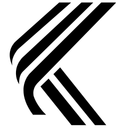
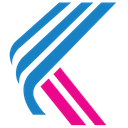
updated the branding

Changed region(s): [[0.1562, 0.0, 0.9062, 1.0], [0.0625, 0.0, 0.75, 0.6562], [0.4062, 0.5312, 0.8438, 1.0]]

diff --git a/src/extension/webviewProvider.ts b/src/extension/webviewProvider.ts
@@ -52,6 +52,11 @@ export class WebviewProvider implements vscode.Disposable {
         ]
       }
     );
+    // Custom tab icon — uses the same logo as the marketplace listing
+    // (`media/icon.png`) instead of VS Code's default three-lines glyph.
+    // Same icon for light + dark theme; VS Code scales the 256×256 PNG
+    // down to 16×16 for the tab strip.
+    panel.iconPath = this.kensaTabIcon();
 
     const kernelManager = new KernelManager(this.context.extensionPath, this.output);
     const router = new DataRouter(kernelManager);
@@ -149,6 +154,7 @@ export class WebviewProvider implements vscode.Disposable {
         ]
       }
     );
+    panel.iconPath = this.kensaTabIcon();
 
     const kernelManager = new KernelManager(this.context.extensionPath, this.output);
     const router = new DataRouter(kernelManager);
@@ -434,6 +440,23 @@ export class WebviewProvider implements vscode.Disposable {
 
   private post(entry: PanelEntry, msg: ExtensionToWebviewMessage): void {
     entry.panel.webview.postMessage(msg);
+  }
+
+  /** URI pair for the Kensa logo used as the panel's tab icon.
+   *
+   *  Uses an SVG (`media/icon-tab.svg`) rather than the marketplace PNG
+   *  (`media/icon.png`). VS Code scales the tab icon down to 16×16, and
+   *  bilinear-filtering a 128×128 PNG produced a faint white halo on
+   *  some themes — the partial-alpha edges of the strokes composited
+   *  against the tab background as light pixels. The SVG renders
+   *  crisply at the target size and preserves true transparency.
+   *
+   *  Both `light` and `dark` point at the same SVG: the colours
+   *  (`#1881C4` blue, `#EB078C` pink) read on either backdrop, so we
+   *  don't need theme-specific variants. */
+  private kensaTabIcon(): { light: vscode.Uri; dark: vscode.Uri } {
+    const uri = vscode.Uri.joinPath(this.context.extensionUri, 'media', 'icon-tab.svg');
+    return { light: uri, dark: uri };
   }
 
   private renderHtml(webview: vscode.Webview): string {
